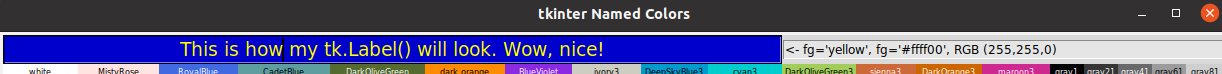
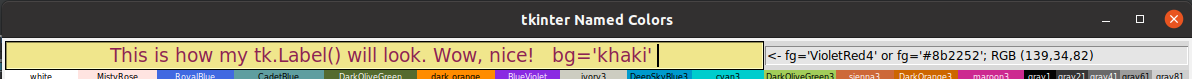
update README.md and image

diff --git a/tk-color-helper.py b/tk-color-helper.py
@@ -357,7 +357,7 @@ class ColorChart(tk.Frame):
         if MY_OS == 'lin':
             def select_all():
                 app.focus_get().event_generate('<<SelectAll>>')
-            self.master.bind_all('<Control-a>', lambda _: select_all())
+            self.master.bind_all('<Control-a>', lambda event: select_all())
 
         if MY_OS in 'lin, win':
             self.bg_info.config(justify='center', bg='grey90',

diff --git a/README.md b/README.md
@@ -1,10 +1,10 @@
 # tkinter_utilities
 ## tk-color-helper.py
-A utility to help choose colors in tkinter GUIs and display their simulated colorblind colors.
-Draws a table using color names from X11 rgb.txt; names not recognized by tkinter are excluded.
-Use command line options to simulate those colors as might be perceived by people having different types of colorblindness, including grayscale equivalents. 
+A utility to help choose colors to use in tkinter GUIs or compare with colorblind simulated colors.
+A chart is drawn of color names from X11 rgb.txt; names not recognized by tkinter are excluded.
+Command line options draw charts that simulate those colors as might be perceived by people having different types of colorblindness. A grayscale chart is also an option. 
 
-Click on a color to bring up its tkinter-ready hex code and RGB value. Values can be cut and pasted with standard keyboard and click commands. Right-click on a different color to change font color; this can aid in choosing effective color combinations.
+To use, click on a color to display it and its tkinter-ready hex code and RGB value. Right-click on a different color to change the display's font color, and show that foreground color name, hex and RGB values. Values can be cut and pasted with standard keyboard and click commands. While values are formatted for direct use in tkinter code, the values themselves can be used for any color format style.
 ```
 $ ./tk-color-helper.py --help
 usage: tk-color-helper.py [-h] [--about] [--d] [--p] [--t] [--gray]
